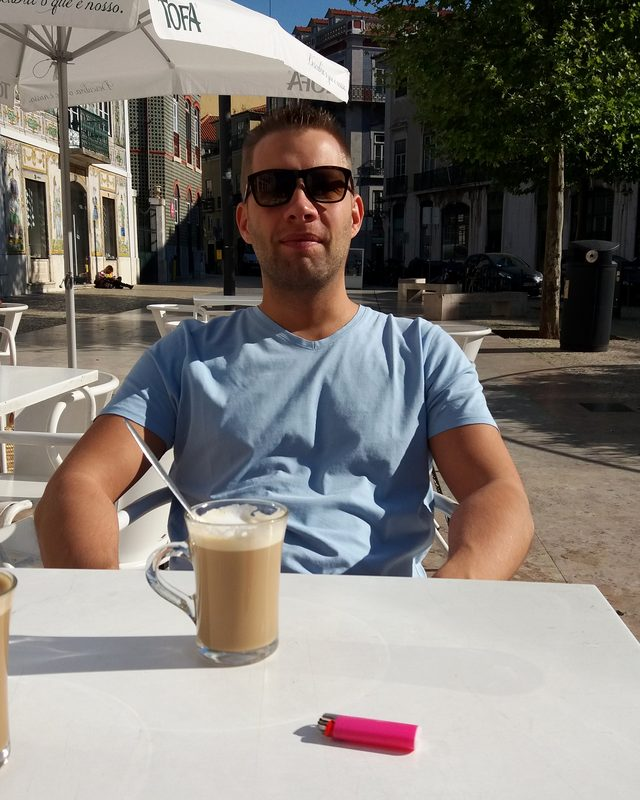
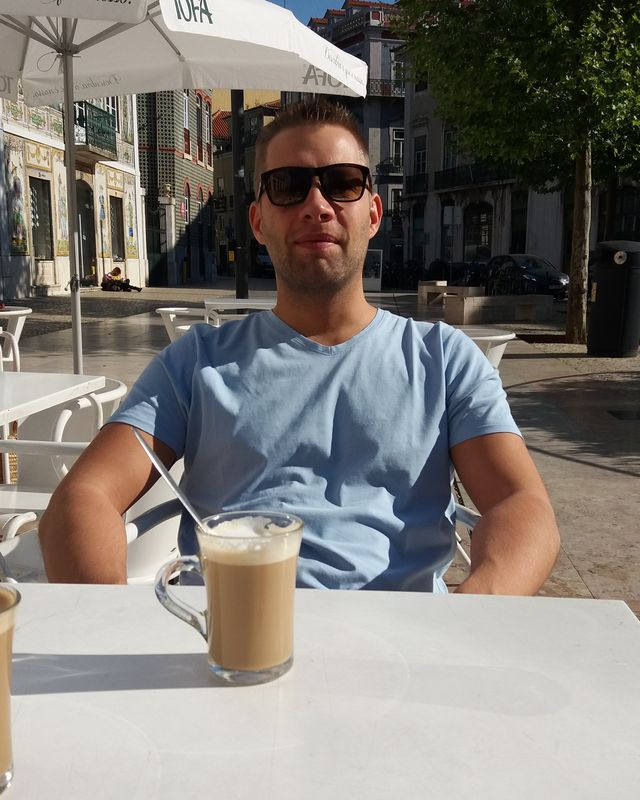
About media pass: wider intro, portrait lighter removed, new Karate and Reading visuals, Einaudi metadata, Travel composition with Yann Tiersen image

diff --git a/en/index.html b/en/index.html
@@ -534,7 +534,7 @@
 <p>There’s something refreshing about entering the dojo as a complete beginner, focusing on the basics and seeing progress come from regular practice rather than shortcuts.</p>
             </div>
           </div>
-          <figure class="cutout"><img src="../assets/images/about/karate/karate-cutout.png" srcset="../assets/images/about/karate/karate-cutout-320.png 320w, ../assets/images/about/karate/karate-cutout.png 480w" sizes="(min-width: 56rem) 14rem, 12rem" width="480" height="1247" alt="A person standing in a white karate uniform with a white belt." loading="lazy" decoding="async"></figure>
+          <figure class="cutout"><img src="../assets/images/about/karate/karate-cutout-new.png" srcset="../assets/images/about/karate/karate-cutout-new-400.png 400w, ../assets/images/about/karate/karate-cutout-new.png 640w" sizes="(min-width: 56rem) 20rem, 14rem" width="640" height="960" alt="A person in a white karate uniform and white belt, standing against brushed red, navy and grey strokes." loading="lazy" decoding="async"></figure>
           <div class="karate-mark" aria-hidden="true"><span class="karate-mark__belt"></span><span class="karate-mark__stripe"></span></div>
         </div>
       </div>
@@ -545,7 +545,7 @@
           <div class="about-ch__text">
             <div class="about-ch__head"><p class="about-ch__label">Reading</p>
 <h3 id="reading-t" class="about-ch__title">Two books at a time</h3></div>
-            <figure class="media-figure reading-figure"><img src="../assets/images/about/reading/reading-two-books-at-a-time.jpg" srcset="../assets/images/about/reading/reading-two-books-at-a-time-640.jpg 640w, ../assets/images/about/reading/reading-two-books-at-a-time.jpg 960w" sizes="(min-width: 56rem) 30vw, calc(100vw - 2rem)" width="960" height="720" alt="Two books lying side by side on a white table: a paperback with a blue illustrated cover and a larger hardback with a dark green cover." loading="lazy" decoding="async"></figure>
+            <figure class="media-figure reading-figure"><img src="../assets/images/about/reading/reading-two-books-editorial.png" srcset="../assets/images/about/reading/reading-two-books-editorial-640.png 640w, ../assets/images/about/reading/reading-two-books-editorial.png 960w" sizes="(min-width: 56rem) 30vw, calc(100vw - 2rem)" width="960" height="640" alt="Illustration of two upright books with painted covers, one in red, grey and cream tones and one in gold and navy tones, on a pale brushed background." loading="lazy" decoding="async"></figure>
           </div>
           <div class="prose prose--wide">
 <p>I usually have two books on the go: one that teaches me something and one that simply pulls me into a good story.</p>
@@ -572,7 +572,7 @@
             </div>
 <ul class="concerts" aria-label="Concerts">
 <li class="concert"><figure class="media-figure concert__photo"><img src="../assets/images/about/music/guns-n-roses-prague-2017.jpg" srcset="../assets/images/about/music/guns-n-roses-prague-2017-640.jpg 640w, ../assets/images/about/music/guns-n-roses-prague-2017.jpg 960w" sizes="(min-width: 48rem) calc((min(100vw, 75rem) - 5rem) / 3), calc(100vw - 2rem)" width="960" height="720" alt="A performer on stage with raised arms, seen from behind, facing a large outdoor festival crowd." loading="lazy" decoding="async"></figure><h5 class="concert__name">Guns N’ Roses</h5><p class="concert__meta">Prague · 2017</p></li>
-<li class="concert"><figure class="media-figure concert__photo"><img src="../assets/images/about/music/ludovico-einaudi-concert.jpg" srcset="../assets/images/about/music/ludovico-einaudi-concert-640.jpg 640w, ../assets/images/about/music/ludovico-einaudi-concert.jpg 960w" sizes="(min-width: 48rem) calc((min(100vw, 75rem) - 5rem) / 3), calc(100vw - 2rem)" width="960" height="720" alt="A concert stage with a grand piano, beams of light fanning upwards and a large video screen on each side." loading="lazy" decoding="async"></figure><h5 class="concert__name">Ludovico Einaudi</h5><p class="concert__meta">Live</p></li>
+<li class="concert"><figure class="media-figure concert__photo"><img src="../assets/images/about/music/ludovico-einaudi-concert.jpg" srcset="../assets/images/about/music/ludovico-einaudi-concert-640.jpg 640w, ../assets/images/about/music/ludovico-einaudi-concert.jpg 960w" sizes="(min-width: 48rem) calc((min(100vw, 75rem) - 5rem) / 3), calc(100vw - 2rem)" width="960" height="720" alt="A concert stage with a grand piano, beams of light fanning upwards and a large video screen on each side." loading="lazy" decoding="async"></figure><h5 class="concert__name">Ludovico Einaudi</h5><p class="concert__meta">Budapest · 2025</p></li>
 <li class="concert"><figure class="media-figure concert__photo"><img src="../assets/images/about/music/system-of-a-down-warsaw-2026.jpg" srcset="../assets/images/about/music/system-of-a-down-warsaw-2026-640.jpg 640w, ../assets/images/about/music/system-of-a-down-warsaw-2026.jpg 960w" sizes="(min-width: 48rem) calc((min(100vw, 75rem) - 5rem) / 3), calc(100vw - 2rem)" width="960" height="720" alt="A person in a black cap taking a selfie in front of a large stadium with a steel-and-fabric façade." loading="lazy" decoding="async"></figure><h5 class="concert__name">System of a Down</h5><p class="concert__meta">Warsaw · 2026</p></li>
 </ul>
           </section>
@@ -609,7 +609,7 @@
           <p class="someday" aria-label="French Polynesia, Bahamas, someday"><span>French Polynesia</span><span class="someday__dot" aria-hidden="true">·</span><span>Bahamas</span><span class="someday__dot" aria-hidden="true">·</span><span>Someday</span></p>
           <ul class="city-images">
 <li class="city city--primary"><figure class="media-figure"><img src="../assets/images/about/travel/warsaw-palace-of-culture.jpg" srcset="../assets/images/about/travel/warsaw-palace-of-culture-640.jpg 640w, ../assets/images/about/travel/warsaw-palace-of-culture.jpg 960w" sizes="(min-width: 40rem) calc(min(100vw - 2rem, 50rem) * .62), calc(100vw - 2rem)" width="960" height="960" alt="The Palace of Culture and Science tower rising above trees under a cloudy blue sky, with a park path in the foreground." loading="lazy" decoding="async"></figure></li>
-<li class="city city--secondary"><figure class="media-figure"><img src="../assets/images/about/travel/milan-duomo.jpg" srcset="../assets/images/about/travel/milan-duomo-480.jpg 480w, ../assets/images/about/travel/milan-duomo.jpg 720w" sizes="(min-width: 40rem) calc(min(100vw - 2rem, 50rem) * .36), 70vw" width="720" height="900" alt="The white marble façade of Milan Cathedral under a clear blue sky, with a crowd in the square in front." loading="lazy" decoding="async"></figure></li>
+<li class="city city--milan"><figure class="media-figure city--secondary"><img src="../assets/images/about/travel/milan-duomo.jpg" srcset="../assets/images/about/travel/milan-duomo-480.jpg 480w, ../assets/images/about/travel/milan-duomo.jpg 720w" sizes="(min-width: 40rem) calc(min(100vw - 2rem, 50rem) * .36), 40vw" width="720" height="900" alt="The white marble façade of Milan Cathedral under a clear blue sky, with a crowd in the square in front." loading="lazy" decoding="async"></figure><figure class="media-figure city__concert"><img src="../assets/images/about/travel/yann-tiersen-milan-2025.jpg" srcset="../assets/images/about/travel/yann-tiersen-milan-2025-480.jpg 480w, ../assets/images/about/travel/yann-tiersen-milan-2025.jpg 800w" sizes="(min-width: 40rem) calc(min(100vw - 2rem, 50rem) * .26), 32vw" width="800" height="600" alt="A live stage performance in warm orange light, with electronic equipment on a table in the foreground." loading="lazy" decoding="async"></figure></li>
 </ul>
         </div>
       </div>

diff --git a/assets/css/styles.css b/assets/css/styles.css
@@ -550,8 +550,9 @@ html[lang="hu"] .hero h1 { --hero-fs: 12.2cqi; }
 @media (min-width: 56rem) and (max-width: 64rem) { .about-open__inner:has(> .about-open__art) { grid-template-columns: minmax(0, 3fr) minmax(0, 2fr); } }
 .about-open h2 { margin-block: var(--space-2) var(--space-3); font-size: clamp(3.25rem, 1.8rem + 7vw, 7.5rem); font-weight: 780; letter-spacing: -.04em; line-height: .95; }
 .about-open .eyebrow { margin-bottom: 0; max-width: 28rem; }
-.about-open__body { max-width: 45rem; margin-top: var(--space-2); font-size: clamp(1rem, .95rem + .2vw, 1.125rem); line-height: 1.65; }
+.about-open__body { max-width: 49.5rem; margin-top: var(--space-2); font-size: clamp(1rem, .95rem + .2vw, 1.125rem); line-height: 1.65; }
 .about-open h2 + .about-open__body { margin-top: var(--space-3); }
+@media (min-width: 56rem) { .about-open__body { font-size: 1.0625rem; } }
 .about-open__more { margin-top: var(--space-3); max-width: 40rem; color: var(--color-muted); font-size: 1rem; font-weight: 600; line-height: 1.5; }
 .portrait { margin: 0; }
 .portrait__frame { aspect-ratio: 4 / 5; border-radius: var(--radius); overflow: hidden; background: linear-gradient(165deg, light-dark(#e9d3b8, #3a2f26), light-dark(#d9b48f, #2a221c)); }
@@ -567,7 +568,7 @@ html[lang="hu"] .hero h1 { --hero-fs: 12.2cqi; }
   .about-open__text > .about-open__art { grid-column: 2; grid-row: 1 / span 5; align-self: center; width: 100%; margin-top: 0; }
 }
 @media (min-width: 56rem) {
-  .about-open__text:has(> .about-open__art) { grid-template-columns: minmax(0, 7.6fr) minmax(0, 3.4fr); column-gap: var(--space-4); }
+  .about-open__text:has(> .about-open__art) { grid-template-columns: minmax(0, 8.4fr) minmax(0, 2.8fr); column-gap: var(--space-4); }
 }
 @media (min-width: 64rem) { .about-open__text:has(> .about-open__art) { column-gap: var(--space-5); } }
 /* Tablet portrait: the opening is content-driven instead of filling the viewport (the portrait slot stays in the markup) */
@@ -595,7 +596,7 @@ html[lang="hu"] .hero h1 { --hero-fs: 12.2cqi; }
 .prose--wide { max-width: 40rem; }
 .about-ch__intro { max-width: 44rem; margin-bottom: var(--space-4); font-size: clamp(1.1875rem, 1rem + .7vw, 1.5rem); line-height: 1.45; }
 .cutout img { display: block; max-height: 22rem; max-width: 100%; width: auto; height: auto; margin-inline: auto; }
-@media (min-width: 56rem) { .cutout img { max-height: 26rem; } }
+@media (min-width: 56rem) { .cutout img { max-height: 29rem; margin-inline: 0 auto; } .about-ch__grid:has(.cutout) { grid-template-columns: minmax(0, 7fr) minmax(0, 4fr); gap: var(--space-4); } }
 /* The decorative belt mark gives way to the real cut-out when one is present */
 .about-ch__grid:has(.cutout) .karate-mark { display: none; }
 
@@ -624,14 +625,19 @@ html[lang="hu"] .hero h1 { --hero-fs: 12.2cqi; }
 .artist-wall { display: flex; flex-wrap: wrap; gap: .25rem 1rem; margin-top: var(--space-3); color: var(--color-muted); font-size: .9375rem; }
 .artist-wall li:not(:last-child)::after { content: "\00b7"; margin-left: 1rem; }
 
-.someday { display: grid; gap: .25rem; font-size: clamp(2rem, 1.1rem + 4.2vw, 4.25rem); font-weight: 780; line-height: 1.02; letter-spacing: -.02em; text-transform: uppercase; }
+.someday { display: grid; gap: .5rem; font-size: clamp(1.75rem, 1rem + 3vw, 3.25rem); font-weight: 780; line-height: 1.02; letter-spacing: -.02em; text-transform: uppercase; }
 .someday__dot { display: none; }
 .someday span:last-child { color: var(--ch-accent); }
 .reading-figure { margin-top: var(--space-3); max-width: 28rem; }
-/* Travel: Warsaw is the larger primary image, Milan the narrower vertical one */
+.reading-figure img { border-radius: var(--radius); box-shadow: 0 0 0 1px light-dark(transparent, rgb(255 255 255 / .08)); }
+/* Travel: Warsaw is the dominant image; Milan with the Yann Tiersen concert image sits beside it as one connected group */
 .city-images { display: grid; gap: var(--space-2); max-width: 50rem; align-items: end; grid-template-columns: minmax(0, 1fr); }
-.city--secondary { width: 70%; }
-@media (min-width: 40rem) { .city-images { grid-template-columns: minmax(0, 7fr) minmax(0, 4fr); gap: var(--space-3); } .city--secondary { width: auto; } }
+.city--milan { display: grid; grid-template-columns: minmax(0, 3fr) minmax(0, 2fr); gap: var(--space-1); align-items: end; }
+@media (min-width: 40rem) {
+  .city-images { grid-template-columns: minmax(0, 7fr) minmax(0, 4fr); gap: var(--space-3); align-items: start; }
+  .city--milan { grid-template-columns: minmax(0, 1fr); align-content: start; }
+  .city__concert { width: 72%; justify-self: end; }
+}
 @media (min-width: 56rem) { .about-ch__grid--travel .city-images { grid-column: 1 / -1; } }
 
 .cycle { display: grid; align-content: start; counter-reset: cyc; }

diff --git a/assets/images/about/SOURCES.md b/assets/images/about/SOURCES.md
@@ -1,0 +1,5 @@
+# About media sources
+
+- `reading/reading-two-books-editorial*.png`: Visual in this file was generated with Microsoft Copilot.
+- `karate/karate-cutout-new*.png`: approved editorial composite (supplied by the site owner).
+- Personal photographs (portrait, music, travel) are the site owner's own; the portrait has one small tabletop object removed and framing preserved.
